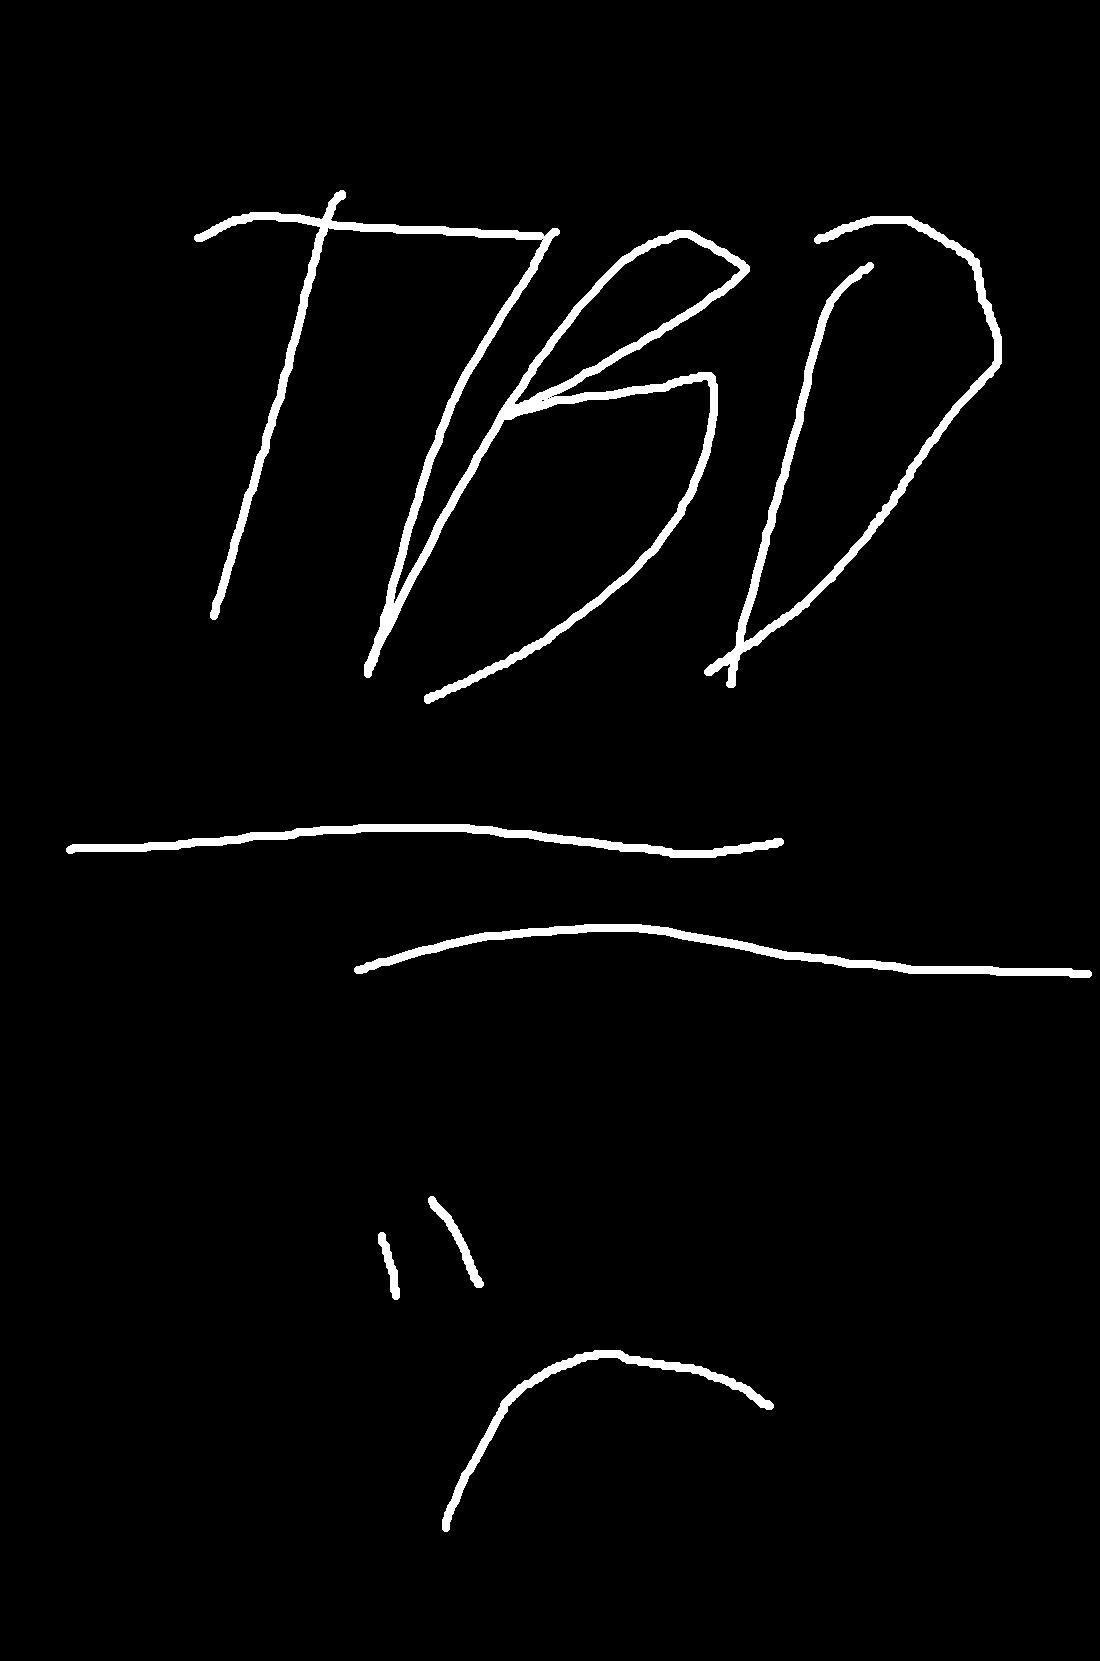
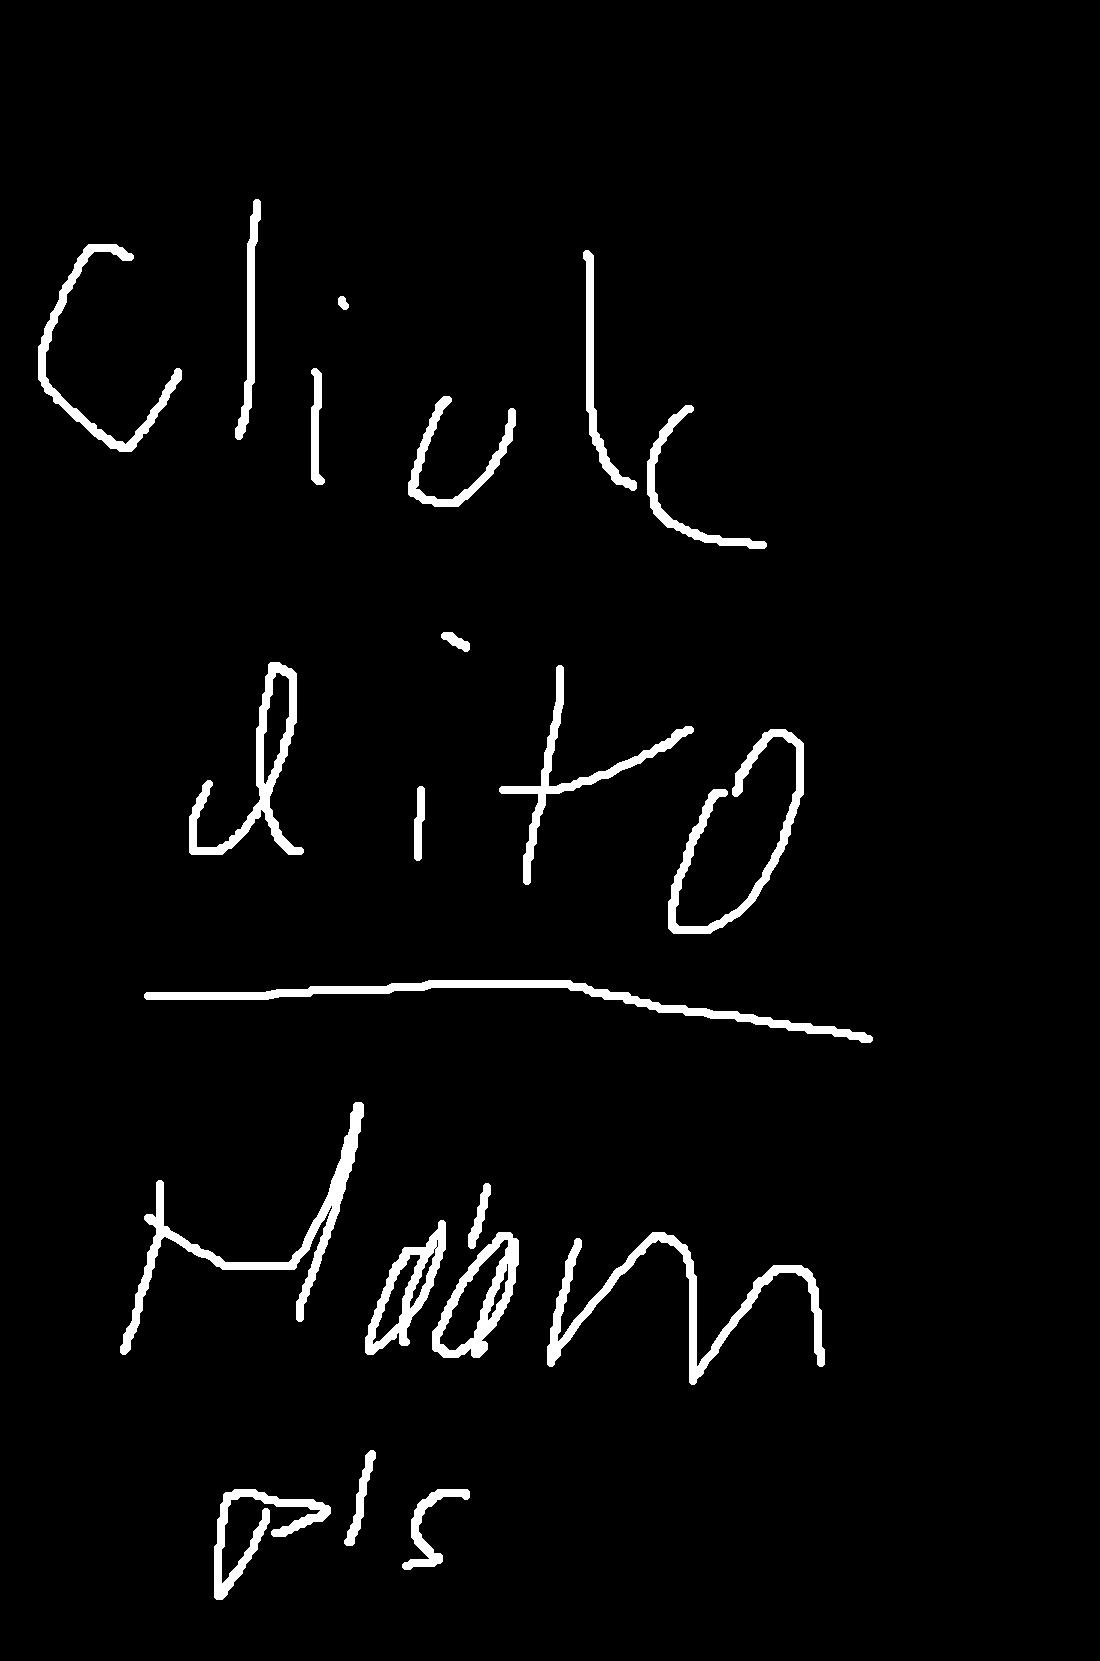
Add files via upload

diff --git a/script.js b/script.js
@@ -4,10 +4,17 @@ x=0;
 firstTime = true;
 prevName = '';
 
-yesteryear = '<p>hindi pa to tapos maam</p>';
-
 robbie = "assets/robbie.png"
 donut = "donut.webp"
+brushbuddy = "brushbuddy.png"
+
+witchhattitle = '<h1>Witch Hat Atelier: Kapag ang Inobasyon ay Nabigong Maabot ang mga Nangangailangan Nito</h1><br>'
+witchhat = '<p>Kahit na mas mataas ang kalidad ng buhay ngayon, marami pa ring isyu sa mundo na kailangang lutasin, tulad ng malnutrisyon o mga maiiwasang sakit. Mayroong libu-libong mananaliksik na naghahanap ng solusyon o inobasyon para mga isyung ito. Mahigit sa tatlong milyong papel ang inilathala sa Scopus database, ayon sa National Center for Science and Engineering Statistics. Bagama`t hindi nagpapatuloy sa pampublikong pamamahagi dahil kulang ito sa substansiya o higpit ang karamihan sa pananaliksik sa produkto o inobasyon, marami pa ang hindi hinahabol dahil hindi kumikita. Wala gaanong akda na nagpapakita nitong “gridlocking” ng solusyon at inobasyon ng kapitalismo, pero meron akong maiisip na isa na may interesanteng ideya sa paksa.</p><br> <p>Sa Witch Hat Atelier (WHA), nakakagawa ng mga makina o aparato gamit ng mahika ang mga witches. Pwede itong ikumpara sa mga teknolohiyang inobasyon sa totoong mundo. Sinasabi sa teksto na ginagamit nila ang mahika, at gumagawa nitong mga aparato, upang makahanap ng mga solusyon sa mga problema ng mga tao, katulad ng pananaliksik sa totoong buhay.  Sa “Silver Eve” arc ng akda, may pagdiriwang saan ipinapakita ng mga witches ang kanilang aparato para sa pagkakataon na mabili ng hari at maipamahagi sa publiko.</p><br>';
+witchhat2 = '<p>Nagpakita ng sarili niyang aparato si Coco, ang bida ng akda. Para may konteksto, inilikha niya ito dahil sa kanyang kaibigan, si Custas. Nakatira si Custas sa iskwater na itinayo sa ibabaw ng mga palabas na kanal. Kahit na may mahika na naglilinis sa tubig paglabas nito sa siyudad, walang naglilinis nito bago ito dumaan sa iskwater.</p><br> <p>Kaya gumawa si Coco ng pitsel na naglilinis ng tubig gamit ang parehong mahika, para malinis ang itinatapon na tubig. Kahit na akala ni Coco na dahil wala namang mawawala, at may matulungan na komunidad, walang bumoto para dito kasi walang personal na benepisyo para sa kanila.</p><br><p>Kahit na ang daming inobasyon at solusyon sa mga isyu ng mundo, hindi sila napupunta sa mga taong higit na nangangailangan nito. Isa sa posibleng rason dito ang kulang ng insentibo para gawing komersyal, lalo na kapag mas mababa ang ‘buying power’ ng ‘target audience’.</p><br><p>Isang halimbawa nito ang paggamit ng gamot ng erectile dysfunction para sa pagkamayabong ng mga kababaihan na may manipis na endometrial lining. Kahit na marami nang pananaliksik na nagpapakita ng positibong epekto sa pagkamayabong ng mga kababaihan na may manipis na endometrial lining (Li et al., n.d.), hindi gaanong ninanaliksik ng medisina ang mga problema na partikular sa kababaihan, at walang komersyal na produkto base sa pananaliksik na nagawa na.</p><br>';
+atelier = '<img src="atelier.jpg" style="max-width:50%"><br>'
+witchhat3 = '<p>At kahit na ipinamahagi sa publiko isang inobasyon, kung pribado kung ito ay pribado sa halip na pinondohan ng gobyerno, maaaring paghigpitan ang pag-access para sa mga taong mas malala ang kalagayan gamit ng ‘price gouging’. Maraming mga gamot na may ganitong isyu, tulad ng insulin (Herman & Kuo, 2021), saan kahit na kailangan ng mga tao upang mabuhay, hindi nila kayang bilhin.</p><br> <p>Ang nakikita sa “Silver Eve” arc ng WHA ang ideya na sa kabila ng lahat ng mga teknolohikal na inobasyon na nalikha natin sa loob ng maraming siglo ng sangkatauhan, sa kasalukuyan, ang mga ito ay nananatiling mga ideya lamang, nilikha upang malutas ang isang problema ngunit hindi kailanman aktwal na magagamit sa isang malawakang paraan. Kakaunti ang pakinabang sa altruismo, kaya ang mga solusyon ay maaaring mamatay o magpatuloy, ngunit hindi aktwal na maabot ang mga nangangailangan nito.</p><br><p>Ngunit kahit na ganoon, kinikilala ng WHA na hindi pa tapos ang lahat. Sa pagtatapos ng precession, nakuha ni Coco ang mga boto na kailangan niya dahil binago ng kanyang kaibigang si Agott ang kanyang kagamitan upang direktang magdala ng tubig sa kanal, na ginagawa itong mas kaakit-akit at kapaki-pakinabang sa mga tao. Ang isa pang karakter, si Olruggio, gumagawa rin ng pro bono na trabaho habang nagtatrabaho para sa mayayamang aristokrata. Hindi niya pinapasa ang kanyang inobasyon sa mga insentibo ng ibang tao, at ginagamit niyang pangtulong diretso. Bagama`t ibinebenta ng mga mangkukulam sa WHA ang kanilang mga kagamitan, nagtatrabaho sila bilang mga lingkod bayan. Sa totoong mundo, ang mga kawanggawa, programa ng gobyerno, at mga organisasyon ng pananaliksik ay maaaring makatulong sa pamamahagi at pagpopondo ng pananaliksik, hindi lamang para magawa ito kundi para maging mahalaga ito.</p><br>';
+
+witchhatcite = '<h2>Sanggunian</h3><br><p>Publication Output by Geography and Scientific Field. National Center for Science and Engineering Statistics . (n.d.). https://www.ncses.nsf.gov/pubs/nsb20257/assets/publication-output-by-geography-and-scientific-field/figures/nsb20257-figdisc-024.pdf</p><br><p>Li, X., Luan, T., Zhao, C., Zhang, M., Dong, L., Su, Y., & Ling, X. (n.d.). Effect of sildenafil citrate on treatment of infertility in women with a thin endometrium: a systematic review and meta-analysis. Journal of International Medical Research. https://pmc.ncbi.nlm.nih.gov/articles/PMC7673063/</p><br><p>Herman, W. H., & Kuo, S. (2021). 100 years of Insulin: Why is Insulin So Expensive and What Can be Done to Control Its Cost? Endocrinology and Metabolism Clinics of North America, 50(3), e21–e34. https://doi.org/10.1016/j.ecl.2021.09.001</p>'
 
 dcctitle = '<h1>Dungeon Crawler Carl: Pagsasamantala ng Kahirapan</h1><br>'
 dcc = '<p>Ang “Dungeon Crawler Carl” (DCC) ay isang serye ng libro na tungkol sa buhay ni Carl at ang kanyang pusa, si Donut, pagkatapos ng apokaliptiko. Matapos ang pagsalakay at agawin ng mga alien ang mga yaman ng ng mga alien sa Earth, ang mga natitirang tao ay napipilitang subukang mabuhay sa baog na ibabaw ng Earth, o pumasok sa ‘Dungeon’, saan may pagkakataong mabawi ang kanilang planeta. Kahit ano pa ang piliin nila, malamang mamamatay pa rin sila. Hindi ito tulad sa ibang “alien invasion” na kuwento, dahil sa mundo ng DCC, sinabi na “tinanim” ng mga alien ng buhay sa ilang planeta at naghintay na lumagoa ng lipunan bago sila sumalakay. Ginawa nila ito dahil mas kumikita na paggawa ng “death game” na palabas gamit ang mga naninirahan sa nawasak na planeta kaysa ibenta ang mga likas na yaman galing sa planeta.</p><br> <p>Itong ideya na para lang sa libangan ng mga alien ang paghihirap ng mga naglalaro (tinataway “crawlers” ng libro) ang isa sa pinaka-importanteng aspeto ng libro. Sa una at ikalawang libro, nasa simula ng halos lahat ng kabanata ang bilang ng ‘followers’ at ‘likes’ ni Carl, at palagi itong tumataas pagkatapos ng eksena kung saan muntik siyang mamamatay. May ilang kabanata saan dinala sila Carl at Donut sa isang “celebrity-style” panayam pagkatapos ng isang laban saan meron silang kaibigang namatay. Tinatangal lahat ng mga pangit na realidad ng sitwasyon nila para hindi kailangang pag-isipan ng mga manonood kung gaano kalupit ang ginagawa ng korporasyon na namamahala sa Dungeon. Pinapatay nila ang umiihi sa labas ng CR, imposible masira ang pagkain kasi nakakabagot na kamatayan ang food poisoning, mayroon pang mabibiling mga ‘upgrades’ para hindi na kailangang matulog ang mga crawler kasi nakakabagot manonood ng taong walang ginagawa.</p><br>';
@@ -22,7 +29,7 @@ dcc4 = '<p>Nagtuturo ng salamin pabalik sa mga manonood ang Dungeon Crawler Carl
 
 dcccite = '<h2>Sanggunian</h3><br><p>Debord, Guy. (2014). The Society of the Spectacle (K. Knabb, Trans.). (Original work published 1967)</p><br><p>Duria, J. J. (2025). Gendered Exploitation: content examination and analysis of selected poverty porn vloggers in the Philippines. SSRN Electronic Journal. https://doi.org/10.2139/ssrn.5340865</p><br><p>Scholz, T. (n.d.). Digital Labor: The Internet as Playground and Factory. Routledge.</p>'
 
-tbd = '<p>wala pa akong nasulat para dito</p>'
+tbd = '<p>maam, sa kasunod na blogpost ko, magsulat ako about "The Secret Life of OFWs" by Jet Tagasa. dahil sa requirements and kulang ko ng bokabularya sa filipino, i dont think i would do it justice but i have a lot of thoughts about it. pls read it when you can. its currently selling at fully booked last i checked. its really good. also, alam ko medyo janky ito. alam ko everyone elses sites will be better made, and their posts will be better formatted, pero ang exposure ko sa blogs was on tumblr (i use a lot of tumblr), saan lahat ng posts diyan are long text posts na basically walls of text analyzing their favorite shows or books or movies tapos i wanted to make my own site also so i wanted this to be medyo early 2000s internet with a modern touch. so pls forgive the jank, dapat campy and feeling homemade ang site kasi it is, and i hope okay lang ang walls of text kasi thats my personal experience with blogging. for reference, see below. galing yan na personal ko na tumblr. kung iba ang ideya mo ng blog sa ideya ko, dont hold that against me please :(</p>'
 
 function typeout(){
     var text = "Aklatan ni Bianca";
@@ -62,17 +69,20 @@ function changeContent(name){
     post.classList.toggle("hidden");
 }
 
+tumblr1 = '<img src="tumblr1.jpeg" style="max-width:50%">'
+tumblr2 = '<img src="tumblr2.jpeg" style="max-width:50%">'
+
 function contentSwitch(name){
     var pfp = document.getElementById('pfp')
     var post = document.getElementById('post1');
-    if(name == 'yesteryear'){
-        post.innerHTML = yesteryear;
-        pfp.src = robbie;
+    if(name == 'witchhat'){
+        post.innerHTML = witchhattitle + witchhat + witchhat2 + atelier + witchhat3 + witchhatcite;
+        pfp.src = brushbuddy;
     }else if(name == 'dcc'){
         post.innerHTML = dcctitle + dcc + dcc2 + carlndonut + dcc3 + dcccite;
         pfp.src = donut;
     }else if(name == 'tbd'){
-        post.innerHTML = tbd;
+        post.innerHTML = tbd + tumblr1 + tumblr2;
     }
 }
 

diff --git a/index.html b/index.html
@@ -15,8 +15,8 @@
         <p>I-click ang mga aklat para basahin ang post</p><br>
             <hr><br><br>
             <a href="https://en.wikipedia.org/wiki/Dungeon_Crawler_Carl">Dungeon Crawler Carl ni Matt Dinniman</a> <br><br>
-            <a href="https://en.wikipedia.org/wiki/Yesteryear_(novel)">Yesteryear ni Caro Claire Burke</a> <br><br>
-            <a href="#">something ni something</a> <br><br><br>
+            <a href="https://en.wikipedia.org/wiki/Witch_Hat_Atelier">Witch Hat Atelier ni Kamome Shirahama</a> <br><br>
+            <a href="https://www.goodreads.com/book/show/224020263-the-secret-lives-of-ofws">The Secret Lives of OFWs ni Jet Tagasa</a> <br><br><br>
             <hr><br>
     </section>
 
@@ -26,7 +26,7 @@
             <img src="shelf.jpg" class="shelf">
             <section class="booksec">
                 <img src="dcc.jpg" class="book" onclick="changeContent('dcc')">
-                <img src="yesteryear.jpg" class="book" onclick="changeContent('yesteryear')">
+                <img src="witchhat.jpg" class="book" onclick="changeContent('witchhat')">
                 <img src="tbd.jpg" class="book" onclick="changeContent('tbd')">
             </section>
         </section>
